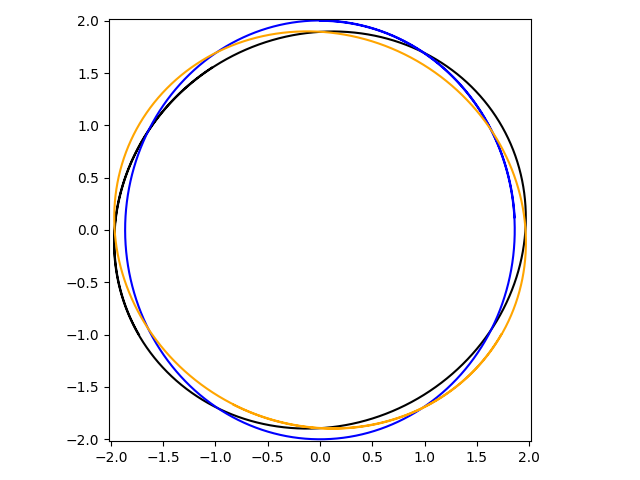
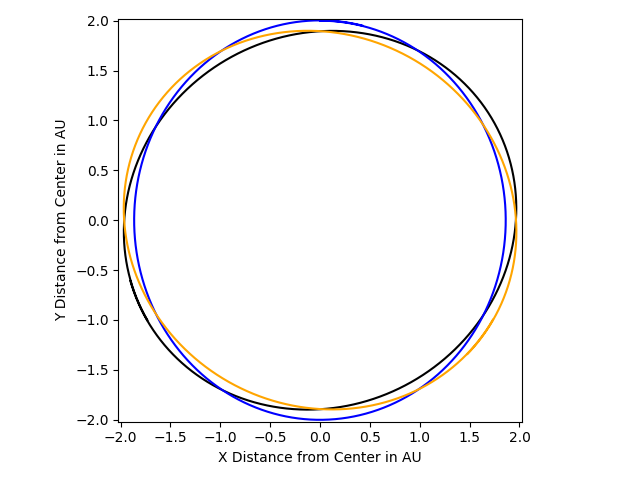
updating figures

diff --git a/Animate_Euler.py b/Animate_Euler.py
@@ -243,8 +243,9 @@ rect_histy = [left + width + spacing, bottom, 0.2, height]
 
 
 #Formatting, Labels, & Legends
-#plt.xlabel('spase')
-#plt.ylabel('spase')
+plt.xlabel('X Distance from Center in AU')
+plt.ylabel('Y Distance from Center in AU')
+ 
 #plt.title('Solution to 3 Body Problem')
 
 
